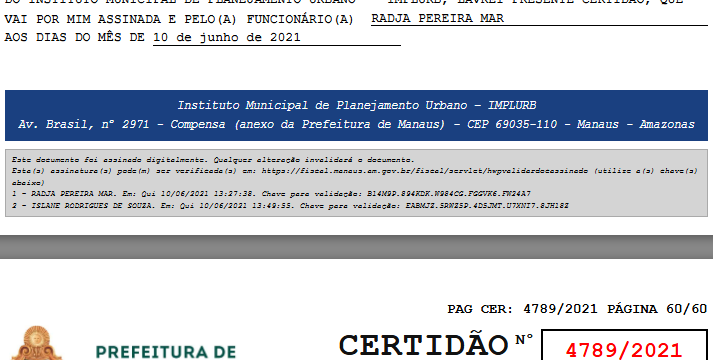
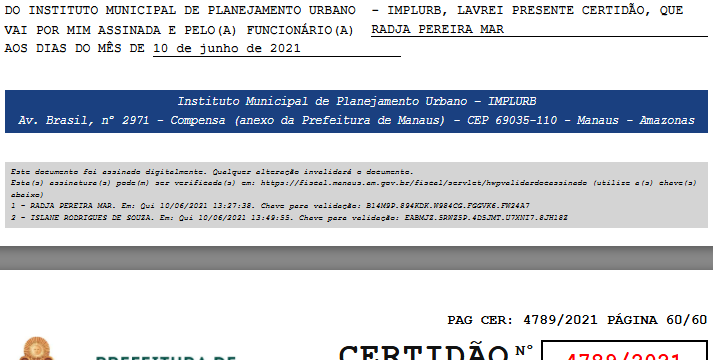
auto-sync: 2026-04-27 10:59

diff --git a/dados/certidao-template.html b/dados/certidao-template.html
@@ -157,7 +157,7 @@
 
   .footer-bar {
     position: absolute;
-    bottom: 25mm;
+    bottom: 30mm;
     left: 12mm;
     right: 12mm;
     background: #1a4080;
@@ -166,7 +166,7 @@
     font-family: "Courier New", Courier, monospace;
     font-size: 11.5px;
     font-style: italic;
-    padding: 7px 12px;
+    padding: 3px 12px;
     line-height: 1.6;
   }
 
@@ -181,7 +181,7 @@
     font-style: italic;
     line-height: 1.45;
     color: #000;
-    border: 0.8px solid #aaa;
+    border: none;
     padding: 4px 6px;
   }
 

diff --git a/dados/build-html.py b/dados/build-html.py
@@ -162,7 +162,7 @@ html = """<!DOCTYPE html>
 
   .footer-bar {
     position: absolute;
-    bottom: 25mm;
+    bottom: 30mm;
     left: 12mm;
     right: 12mm;
     background: #1a4080;
@@ -171,7 +171,7 @@ html = """<!DOCTYPE html>
     font-family: "Courier New", Courier, monospace;
     font-size: 11.5px;
     font-style: italic;
-    padding: 7px 12px;
+    padding: 3px 12px;
     line-height: 1.6;
   }
 
@@ -186,7 +186,7 @@ html = """<!DOCTYPE html>
     font-style: italic;
     line-height: 1.45;
     color: #000;
-    border: 0.8px solid #aaa;
+    border: none;
     padding: 4px 6px;
   }
 
